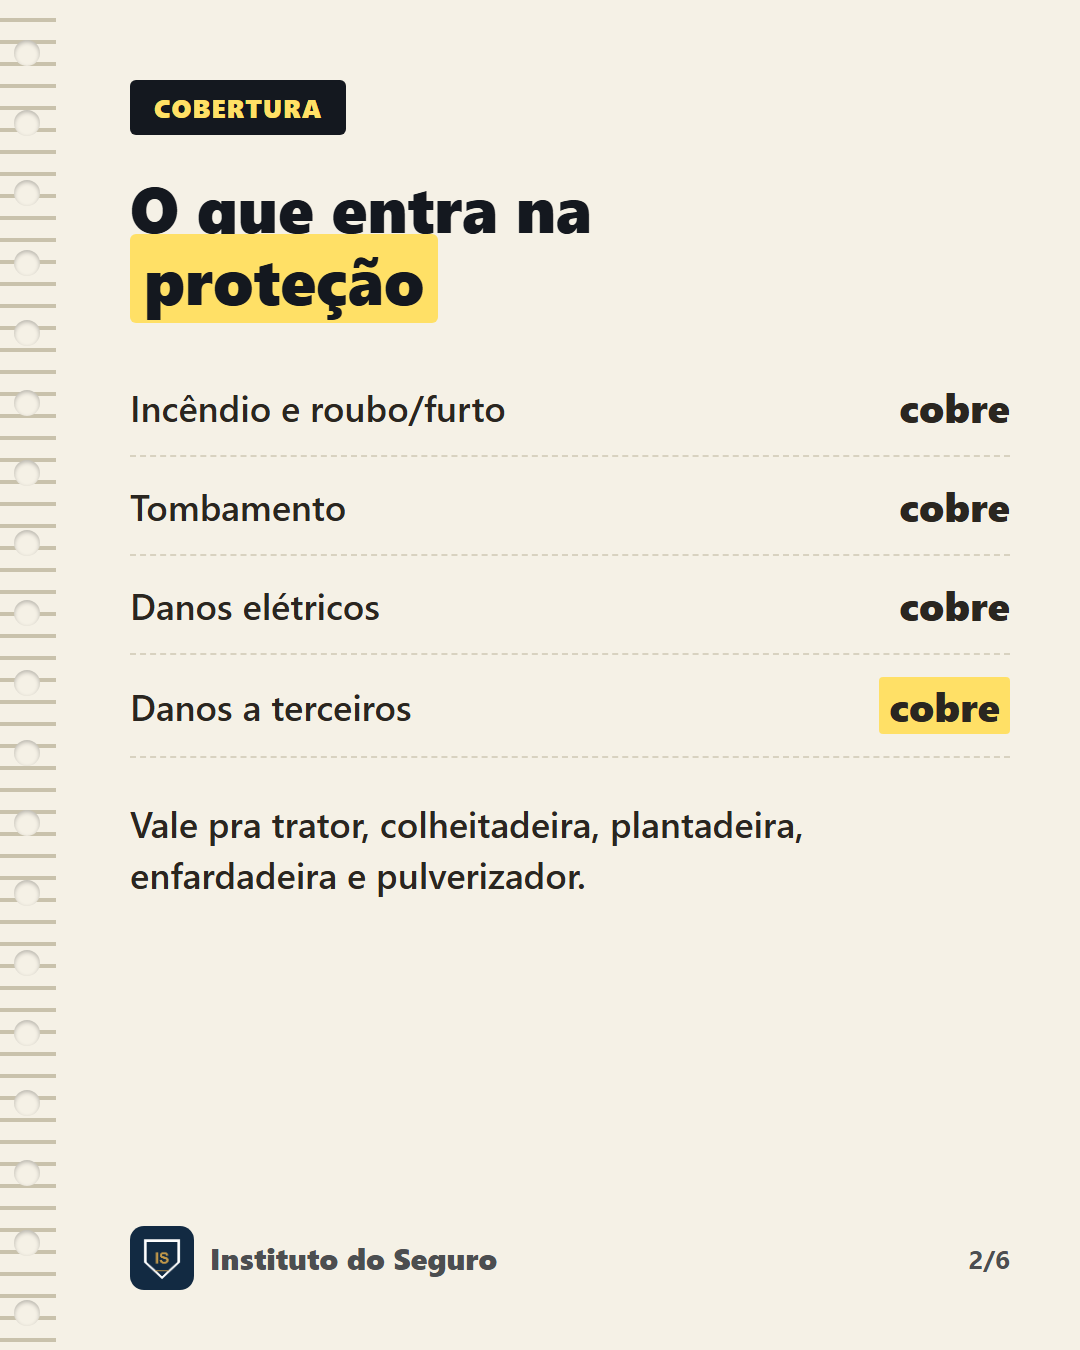
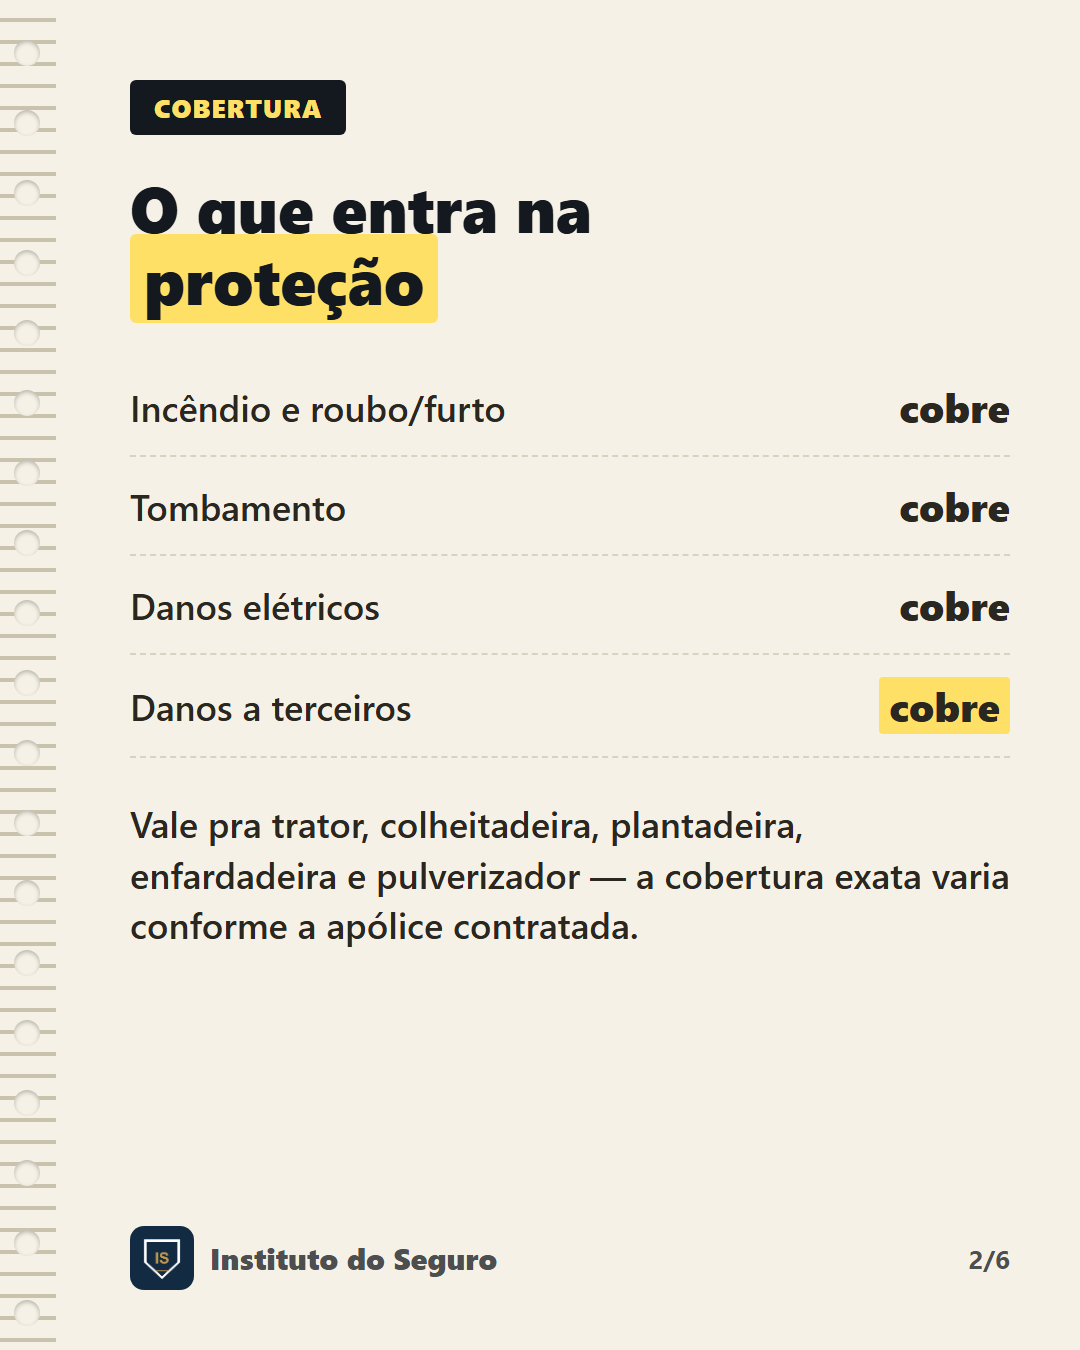
Post-03: capa/story com foto de colheitadeira, remove valor especifico do slide de custo
Usuario decidiu remover o valor especifico (R$4mil-R$20mil) do post de
equipamentos agricolas tambem - coberturas e custo variam demais pra citar
numero fixo. Reescrito o slide 4 (CUSTO) nos mesmos moldes do fix aplicado
ao post-01 (reconhece que o valor e real e menor que o prejuizo, sem citar
faixa numerica, convida pra cotacao). Adicionada ressalva de que a lista
de coberturas tambem varia conforme a apolice no slide 2 e na legenda.

Tambem trocada a capa (slide-01) e o story de estilo caderno sem foto pra
foto de uma colheitadeira (equipamento agricola mais reconhecivel no
Brasil, a pedido do usuario) - slides internos 2-6 mantidos em estilo
caderno.

Changed region(s): [[0.6111, 0.6222, 0.9167, 0.6844], [0.1222, 0.6533, 0.5806, 0.7156]]

diff --git a/content/semana-04/post-03-vale-a-pena-equipamentos-agricolas/slide-01.html b/content/semana-04/post-03-vale-a-pena-equipamentos-agricolas/slide-01.html
@@ -1,34 +1,31 @@
 <!DOCTYPE html>
 <html lang="pt-BR"><head><meta charset="UTF-8"><style>
   html,body { margin:0;padding:0;width:1080px;height:1350px;font-family:'Segoe UI',sans-serif; }
-  .frame { position:relative;width:1080px;height:1350px;box-sizing:border-box;
-    background:#F5F1E6; padding:80px 70px; }
-  .spiral { position:absolute;top:0;bottom:0;left:0;width:56px;
-    background-image:repeating-linear-gradient(to bottom, transparent 0 18px, #C9C2AC 18px 22px);
-  }
-  .spiral-hole { position:absolute;left:14px;width:26px;height:26px;border-radius:50%;
-    background:#F5F1E6; box-shadow: inset 0 2px 4px rgba(0,0,0,0.25); }
-  .content { margin-left:60px; }
-  .tag { display:inline-block;background:#14181F;color:#FFE066;font-weight:800;font-size:26px;
-    padding:10px 24px;border-radius:6px;letter-spacing:1px;text-transform:uppercase;margin-bottom:36px; }
-  h1 { font-size:64px;font-weight:800;color:#14181F;line-height:1.12;margin:0 0 44px 0; }
-  h1 .hl { background:#FFE066;padding:2px 14px;border-radius:6px; }
-  .items { margin-bottom:40px; }
-  .closing { font-size:36px;color:#2A2620;font-weight:600;line-height:1.4; }
-  .brandline { position:absolute;bottom:60px;left:130px;right:70px;
-    display:flex;justify-content:space-between;align-items:center; }
+  .frame { position:relative;width:1080px;height:1350px;overflow:hidden;background:#000; }
+  .bg { position:absolute;inset:0;width:100%;height:100%;object-fit:cover; }
+  .scrim-top { position:absolute;top:0;left:0;right:0;height:340px;
+    background:linear-gradient(to bottom, rgba(0,0,0,0.55), rgba(0,0,0,0)); }
+  .scrim-bottom { position:absolute;bottom:0;left:0;right:0;height:820px;
+    background:linear-gradient(to top, rgba(4,8,20,0.97) 25%, rgba(4,8,20,0.78) 55%, rgba(4,8,20,0)); }
+  .tag { position:absolute;top:64px;left:64px;background:#FFC93C;color:#14181F;font-weight:800;
+    font-size:26px;padding:12px 26px;border-radius:6px;letter-spacing:0.5px; }
+  .bottom-content { position:absolute;bottom:66px;left:64px;right:64px; }
+  h1 { font-size:74px;font-weight:800;color:#fff;line-height:1.08;margin:0 0 24px 0;
+    letter-spacing:-1px; }
+  h1 .hl { color:#FFC93C; }
+  .sub { font-size:32px;color:rgba(255,255,255,0.9);font-weight:500;line-height:1.4;margin:0 0 34px 0; }
+  .brandline { display:flex;justify-content:space-between;align-items:center; }
 </style></head>
 <body><div class="frame">
-  <div class="spiral"></div>
-  <div class="spiral-hole" style="top:40px;"></div><div class="spiral-hole" style="top:110px;"></div><div class="spiral-hole" style="top:180px;"></div><div class="spiral-hole" style="top:250px;"></div><div class="spiral-hole" style="top:320px;"></div><div class="spiral-hole" style="top:390px;"></div><div class="spiral-hole" style="top:460px;"></div><div class="spiral-hole" style="top:530px;"></div><div class="spiral-hole" style="top:600px;"></div><div class="spiral-hole" style="top:670px;"></div><div class="spiral-hole" style="top:740px;"></div><div class="spiral-hole" style="top:810px;"></div><div class="spiral-hole" style="top:880px;"></div><div class="spiral-hole" style="top:950px;"></div><div class="spiral-hole" style="top:1020px;"></div><div class="spiral-hole" style="top:1090px;"></div><div class="spiral-hole" style="top:1160px;"></div><div class="spiral-hole" style="top:1230px;"></div><div class="spiral-hole" style="top:1300px;"></div>
-  <div class="content">
-    <div class="tag">VALE A PENA?</div>
+  <img class="bg" src="C:/Users/crist/instituto-do-seguro/content/assets/ref-pexels-colheitadeira.jpg">
+  <div class="scrim-top"></div>
+  <div class="scrim-bottom"></div>
+  <div class="tag">VALE A PENA?</div>
+  <div class="bottom-content">
     <h1>Seguro de Equipamentos<br>Agrícolas: vale a <span class='hl'>pena</span>?</h1>
-    <div class="items"></div>
-    <div class="closing">Trator, colheitadeira, pulverizador — separamos os números antes de você decidir 👇</div>
-  </div>
-  
-    <div class="brandline" style="color:rgba(20,24,31,0.75)">
+    <div class="sub">Trator, colheitadeira, pulverizador — separamos os números antes de você decidir.</div>
+    
+    <div class="brandline" style="color:rgba(255,255,255,0.75)">
       <div style="display:flex;align-items:center;gap:16px;">
         <img src="C:/Users/crist/instituto-do-seguro/content/logo.png" style="width:64px;height:64px;border-radius:14px;">
         <span style="font-weight:800;font-size:30px;">Instituto do Seguro</span>
@@ -36,4 +33,5 @@
       <span style="font-weight:700;font-size:26px;">1/6</span>
     </div>
     
+  </div>
 </div></body></html>

diff --git a/content/semana-04/post-03-vale-a-pena-equipamentos-agricolas/slide-04.html b/content/semana-04/post-03-vale-a-pena-equipamentos-agricolas/slide-04.html
@@ -22,15 +22,10 @@
   <div class="spiral"></div>
   <div class="spiral-hole" style="top:40px;"></div><div class="spiral-hole" style="top:110px;"></div><div class="spiral-hole" style="top:180px;"></div><div class="spiral-hole" style="top:250px;"></div><div class="spiral-hole" style="top:320px;"></div><div class="spiral-hole" style="top:390px;"></div><div class="spiral-hole" style="top:460px;"></div><div class="spiral-hole" style="top:530px;"></div><div class="spiral-hole" style="top:600px;"></div><div class="spiral-hole" style="top:670px;"></div><div class="spiral-hole" style="top:740px;"></div><div class="spiral-hole" style="top:810px;"></div><div class="spiral-hole" style="top:880px;"></div><div class="spiral-hole" style="top:950px;"></div><div class="spiral-hole" style="top:1020px;"></div><div class="spiral-hole" style="top:1090px;"></div><div class="spiral-hole" style="top:1160px;"></div><div class="spiral-hole" style="top:1230px;"></div><div class="spiral-hole" style="top:1300px;"></div>
   <div class="content">
-    <div class="tag">CUSTO</div>
-    <h1>Quanto custa<br><span class='hl'>proteger</span> a máquina</h1>
-    <div class="items">
-        <div style="display:flex;justify-content:space-between;align-items:center;
-                    padding:22px 0;border-bottom:2px dashed #D8D2C0;">
-          <span style="font-size:36px;color:#2A2620;font-weight:600;">Colheitadeira / ano</span>
-          <span style="font-size:40px;color:#2A2620;font-weight:800;background:#FFE066;padding:2px 10px;border-radius:4px;">R$4mil a R$20mil</span>
-        </div></div>
-    <div class="closing">Varia com o ano e o valor do equipamento — uma fração do prejuízo de perder a máquina na safra.</div>
+    <div class="tag">CUSTO REAL</div>
+    <h1>Depende da<br><span class='hl'>máquina e da apólice</span></h1>
+    <div class="items"></div>
+    <div class="closing">O valor varia com o ano, o modelo e a cobertura escolhida — mas costuma ser uma fração do prejuízo de perder o equipamento na safra. Vale pedir uma cotação.</div>
   </div>
   
     <div class="brandline" style="color:rgba(20,24,31,0.75)">

diff --git a/content/semana-04/post-03-vale-a-pena-equipamentos-agricolas/slide-02.html b/content/semana-04/post-03-vale-a-pena-equipamentos-agricolas/slide-02.html
@@ -45,7 +45,7 @@
           <span style="font-size:36px;color:#2A2620;font-weight:600;">Danos a terceiros</span>
           <span style="font-size:40px;color:#2A2620;font-weight:800;background:#FFE066;padding:2px 10px;border-radius:4px;">cobre</span>
         </div></div>
-    <div class="closing">Vale pra trator, colheitadeira, plantadeira, enfardadeira e pulverizador.</div>
+    <div class="closing">Vale pra trator, colheitadeira, plantadeira, enfardadeira e pulverizador — a cobertura exata varia conforme a apólice contratada.</div>
   </div>
   
     <div class="brandline" style="color:rgba(20,24,31,0.75)">

diff --git a/content/semana-04/post-03-vale-a-pena-equipamentos-agricolas/story.html b/content/semana-04/post-03-vale-a-pena-equipamentos-agricolas/story.html
@@ -25,7 +25,7 @@
   .brand span { color:rgba(255,255,255,0.75);font-weight:800;font-size:24px; }
 </style></head>
 <body><div class="frame">
-  <div class="bg-solid"></div>
+  <img class="bg" src="C:/Users/crist/instituto-do-seguro/content/assets/ref-pexels-colheitadeira.jpg"><div class="scrim-top-s"></div><div class="scrim-bottom-s"></div>
   <div class="safe"><div class="tag">VALE A PENA?</div></div>
   <div class="bottom">
     <h1>Seguro de equipamentos<br><span class='hl'>agrícolas</span></h1>

diff --git a/scripts/build_lote_04.py b/scripts/build_lote_04.py
@@ -77,24 +77,25 @@ def build_post_02_mito_auto_terceiro():
 
 def build_post_03_vale_a_pena_agro():
     out = os.path.join(CONTENT, "semana-04", "post-03-vale-a-pena-equipamentos-agricolas")
+    photo = p("ref-pexels-colheitadeira.jpg")
     total = 6
     slides = [
-        notebook_slide(LOGO, "VALE A PENA?",
-                        "Seguro de Equipamentos<br>Agrícolas: vale a <span class='hl'>pena</span>?",
-                        [], "Trator, colheitadeira, pulverizador — separamos os números antes de você decidir 👇", 1, total),
+        photo_slide(LOGO, photo, "VALE A PENA?",
+                    "Seguro de Equipamentos<br>Agrícolas: vale a <span class='hl'>pena</span>?",
+                    "Trator, colheitadeira, pulverizador — separamos os números antes de você decidir.", 1, total),
         notebook_slide(LOGO, "COBERTURA", "O que entra na<br><span class='hl'>proteção</span>",
                         [{"label": "Incêndio e roubo/furto", "value": "cobre"},
                          {"label": "Tombamento", "value": "cobre"},
                          {"label": "Danos elétricos", "value": "cobre"},
                          {"label": "Danos a terceiros", "value": "cobre", "highlight": True}],
-                        "Vale pra trator, colheitadeira, plantadeira, enfardadeira e pulverizador.", 2, total),
+                        "Vale pra trator, colheitadeira, plantadeira, enfardadeira e pulverizador — a cobertura exata varia conforme a apólice contratada.", 2, total),
         notebook_slide(LOGO, "CRESCIMENTO", "O ramo está<br><span class='hl'>disparando</span>",
                         [{"label": "Contratações no 1º semestre", "value": "+22%", "highlight": True},
                          {"label": "Nº de apólices", "value": "+12%"}],
                         "Dado de uma das maiores seguradoras do ramo — o trator é hoje o equipamento mais contratado, à frente da colheitadeira.", 3, total),
-        notebook_slide(LOGO, "CUSTO", "Quanto custa<br><span class='hl'>proteger</span> a máquina",
-                        [{"label": "Colheitadeira / ano", "value": "R$4mil a R$20mil", "highlight": True}],
-                        "Varia com o ano e o valor do equipamento — uma fração do prejuízo de perder a máquina na safra.", 4, total),
+        notebook_slide(LOGO, "CUSTO REAL", "Depende da<br><span class='hl'>máquina e da apólice</span>",
+                        [],
+                        "O valor varia com o ano, o modelo e a cobertura escolhida — mas costuma ser uma fração do prejuízo de perder o equipamento na safra. Vale pedir uma cotação.", 4, total),
         notebook_slide(LOGO, "ONDE MAIS CRESCE", "A demanda tem<br><span class='hl'>endereço</span>",
                         [{"label": "Paraná", "value": "+17% da carteira", "highlight": True},
                          {"label": "Norte/Centro-Oeste + Sul", "value": "~70% das vendas"}],

diff --git a/scripts/build_stories_semana04.py b/scripts/build_stories_semana04.py
@@ -33,7 +33,7 @@ STORIES = {
     "post-03-vale-a-pena-equipamentos-agricolas": dict(
         tag="VALE A PENA?",
         title="Seguro de equipamentos<br><span class='hl'>agrícolas</span>",
-        photo=None,
+        photo=p("ref-pexels-colheitadeira.jpg"),
     ),
     "post-04-caso-real-mora-premio": dict(
         tag="ATENÇÃO",

diff --git a/content/semana-04/legendas.md b/content/semana-04/legendas.md
@@ -38,7 +38,7 @@ Depende só de um fator: o tipo de cobertura, não de achar o culpado. Com compr
 
 Seguro de equipamentos agrícolas vale a pena? 🚜
 
-As contratações desse seguro cresceram 22% num só semestre, com o trator como equipamento mais protegido — e o custo (R$4 mil a R$20 mil por ano numa colheitadeira) é uma fração do prejuízo de perder a máquina na safra. Cobre incêndio, roubo, tombamento e danos elétricos.
+As contratações desse seguro cresceram 22% num só semestre, com o trator como equipamento mais protegido — e o custo, que varia com a máquina e a apólice, costuma ser uma fração do prejuízo de perder o equipamento na safra. Cobertura típica: incêndio, roubo, tombamento e danos elétricos (varia conforme a apólice contratada).
 
 👇 Essa lista de coberturas é grande pra decorar — salva pra usar antes da próxima safra.
 
@@ -90,9 +90,11 @@ de corretor no teste de domingo (regra fixa).
 
 ## Fotos usadas
 - ref-pexels-contract.jpg — mito seguro empresarial (já existente no repositório)
-- ref-pexels-crash.jpg — mito seguro auto x terceiro não identificado (já existente no repositório)
+- ref-pexels-bmw-damaged.jpg — mito seguro auto x terceiro não identificado (nova, baixada do Pexels; substituiu duas tentativas anteriores por feedback do usuário — carro batido genérico repetido demais, depois dano pouco visível)
+- ref-pexels-colheitadeira.jpg — capa e story de vale a pena equipamentos agrícolas (nova, baixada do Pexels)
 - ref-pexels-house.jpg — caso real de atraso no pagamento do prêmio (já existente no repositório)
-- Posts 3 (vale a pena equipamentos agrícolas) e 5 (papo de corretor previdência) usam o estilo caderno, sem foto.
+- Post 3 (vale a pena equipamentos agrícolas): capa com foto de colheitadeira, slides internos (2-6) mantêm o estilo caderno.
+- Post 5 (papo de corretor previdência) usa o estilo caderno, sem foto.
 
 ## Pendência de rede (confirmada de novo nesta rodada, 2026-08-16)
 O ambiente de nuvem continua bloqueando `images.pexels.com`, `images.unsplash.com`,
